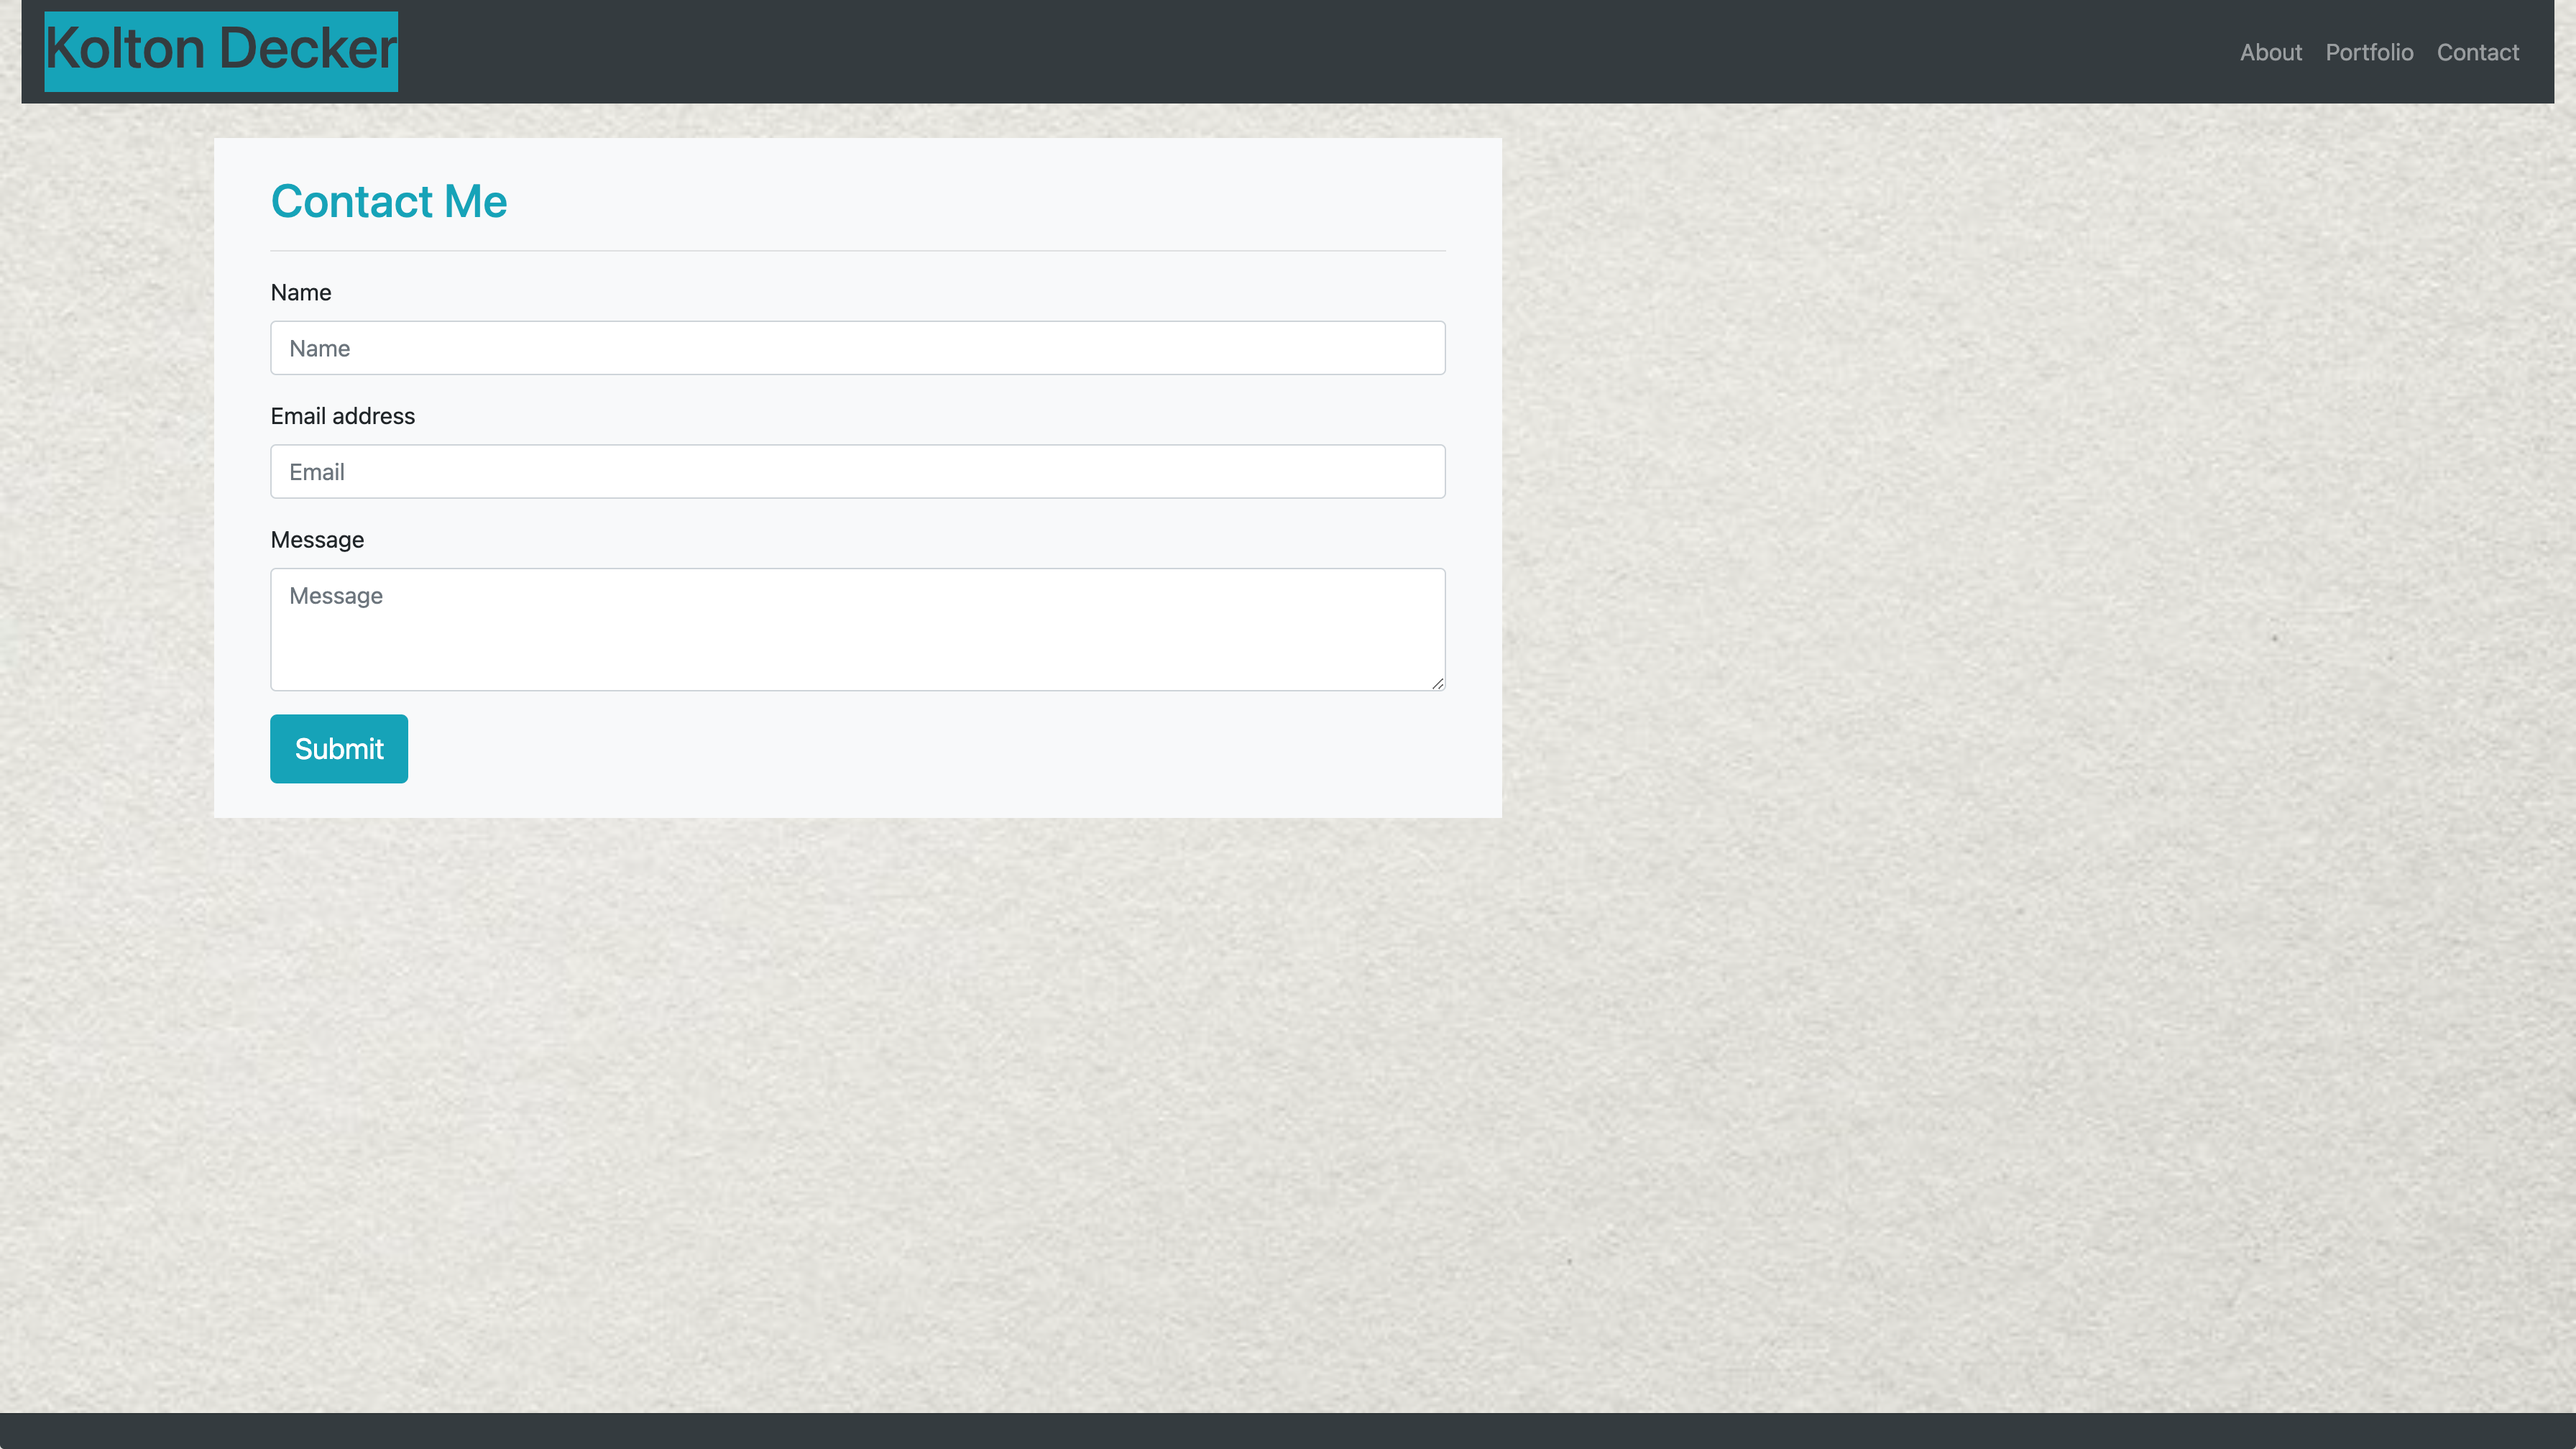
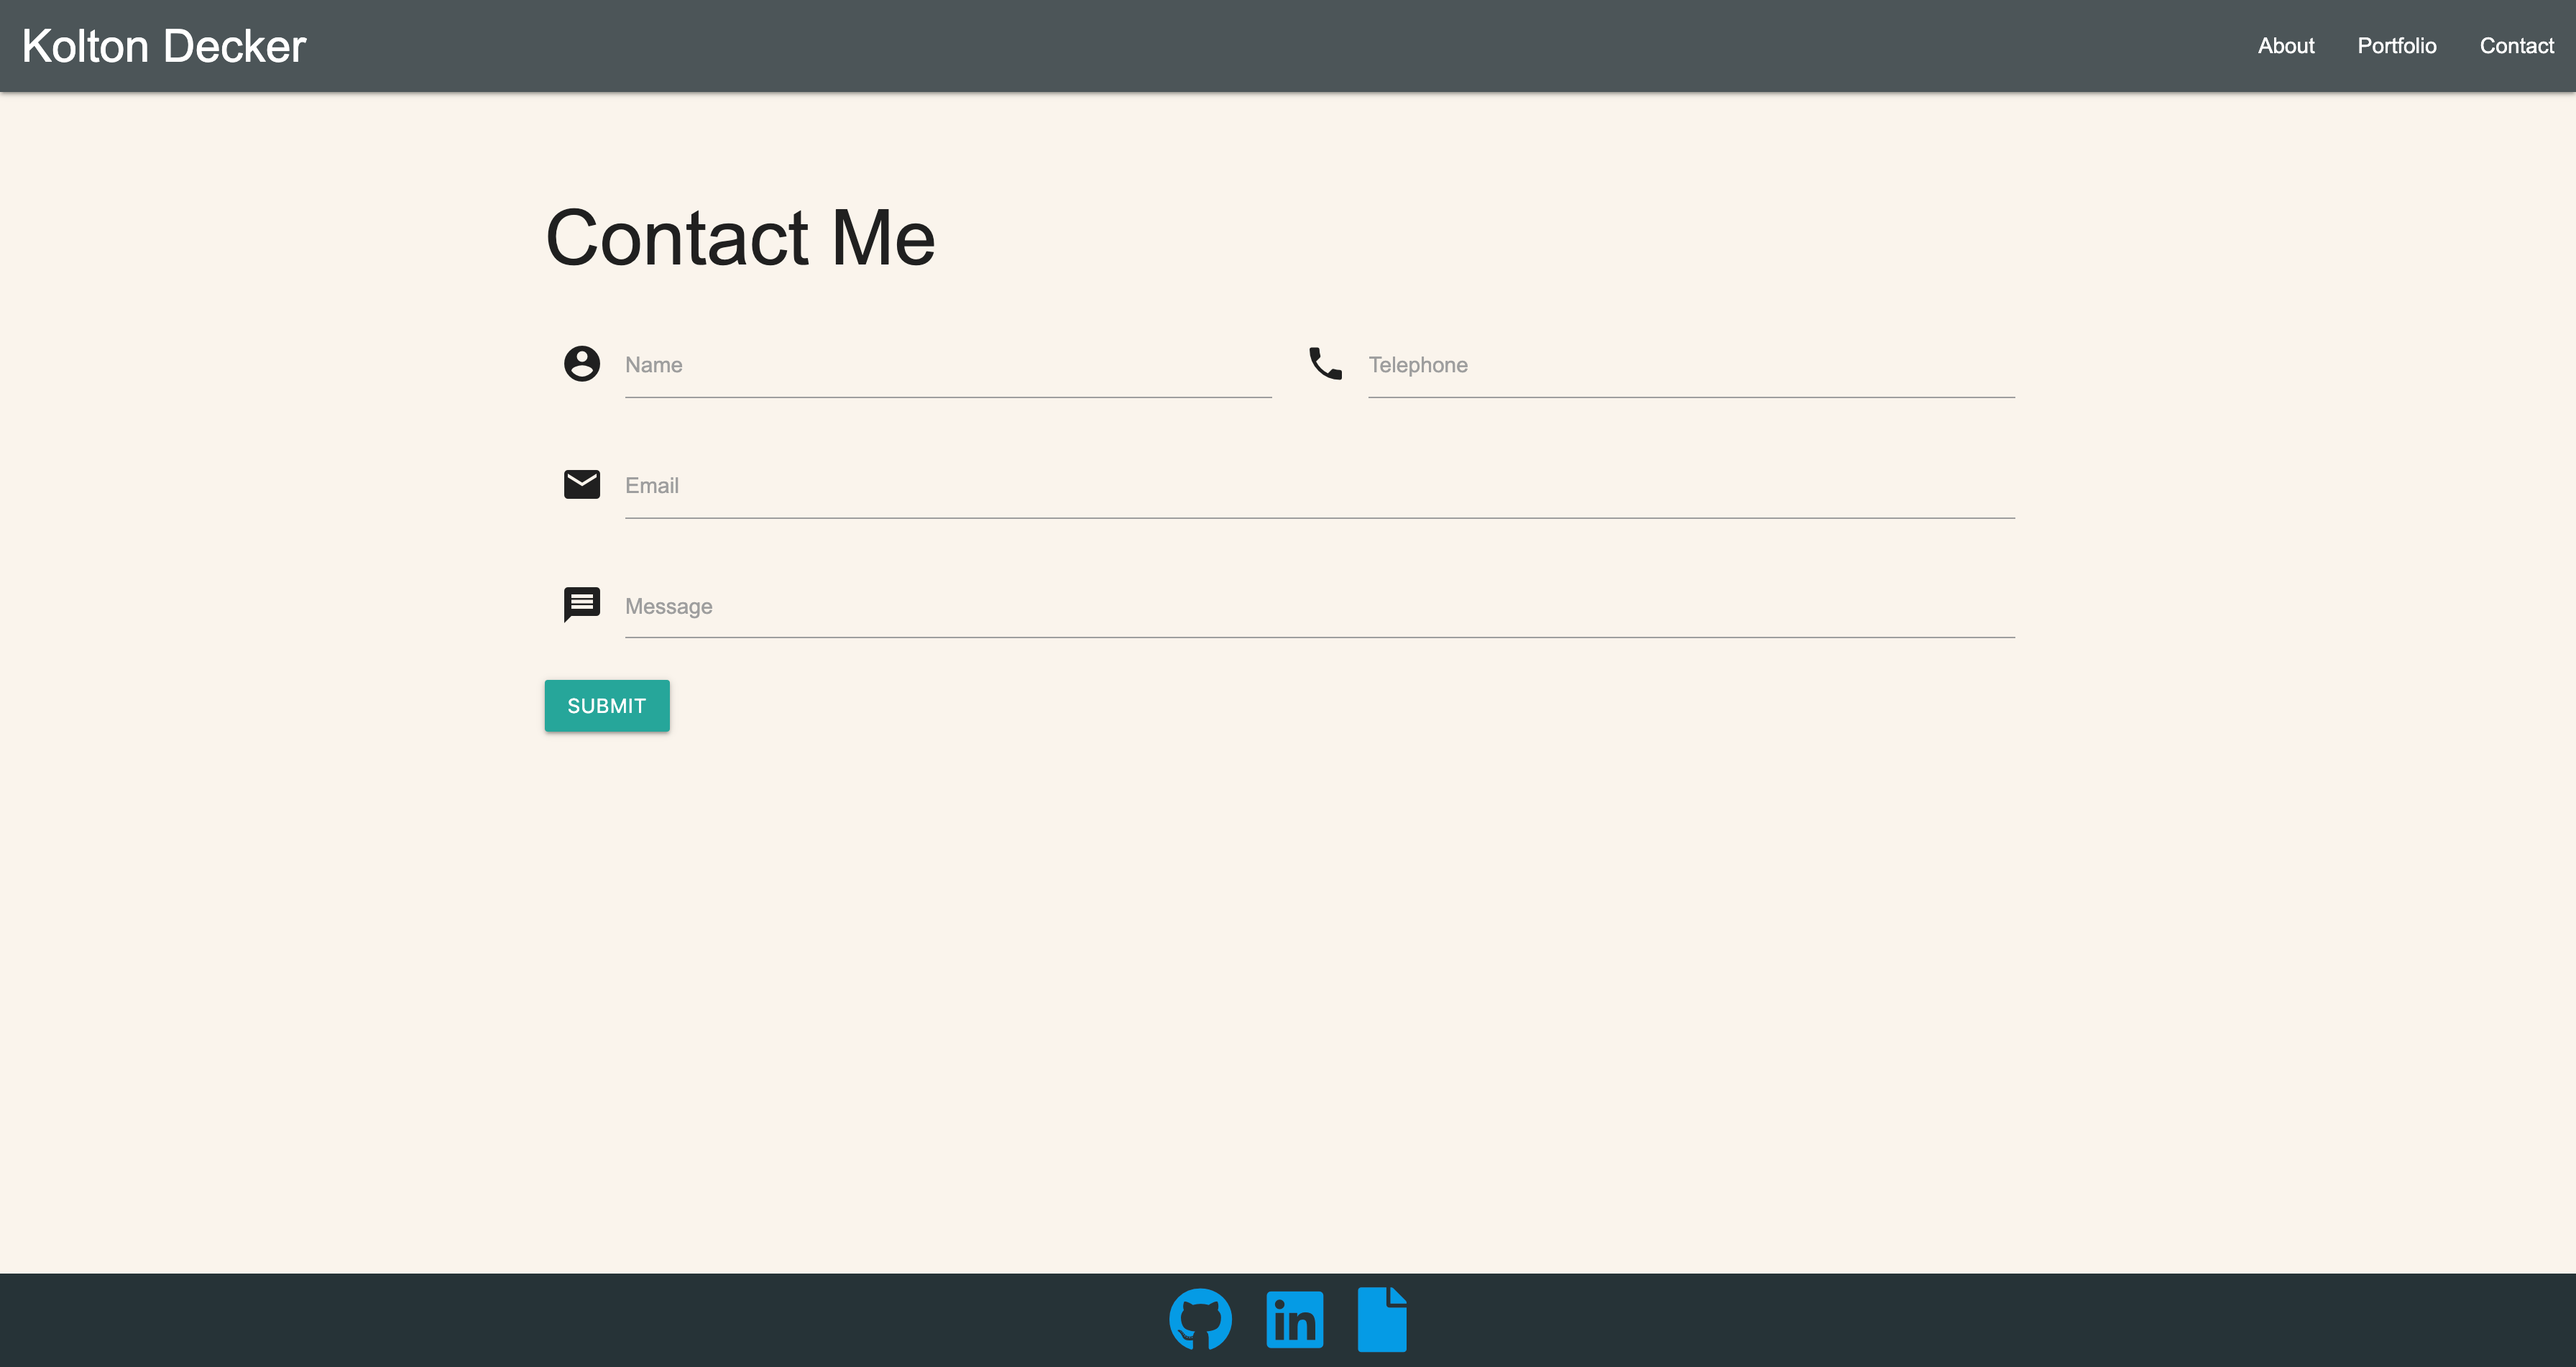
Cleaned up Readme

diff --git a/assets/html/portfolio.html b/assets/html/portfolio.html
@@ -50,7 +50,7 @@
             <div class="parallax-container">
                 <div class="parallax"><a href="https://goal-tracker-kscc.herokuapp.com/"><img class="project-image" src="../images/goal-tracker-homepage.png" ></a></div>
             </div>
-            <div class="section grey lighten-2">
+            <div class="section">
                 <div class="row container">
                     <h2 class="header center-align">Goal Tracker</h2>
                     <div class="col s12 m6 center-align">
@@ -95,7 +95,7 @@
             <div class="parallax-container">
                 <div class="parallax"><a href="https://koltondecker.github.io/quarantinis/"><img class="project-image" src="../images/quarantinis-landing-page.jpg" ></a></div>
             </div>
-            <div class="section grey lighten-2">
+            <div class="section">
                 <div class="row container">
                     <h2 class="header center-align">quarantinis: A Cocktail Recipe Generator</h2>
                     <div class="col s12 m6 center-align">
@@ -134,7 +134,7 @@
             <div class="parallax-container">
                 <div class="parallax"><a href="https://koltondecker.github.io/Weather-Dashboard/"><img class="project-image" src="../images/weather-dashboard-project.png" ></a></div>
             </div>
-            <div class="section grey lighten-2">
+            <div class="section">
                 <div class="row container">
                     <h2 class="header center-align">Weather Dashboard</h2>
                     <div class="col s12 m6 center-align">
@@ -173,7 +173,7 @@
             <div class="parallax-container">
                 <div class="parallax"><a href="https://burger-logger-kolton-decker.herokuapp.com/"><img class="project-image" src="../images/burger-logger.png" ></a></div>
             </div>
-            <div class="section grey lighten-2">
+            <div class="section">
                 <div class="row container">
                     <h2 class="header center-align">Eat Da Burger: Burger Logger</h2>
                     <div class="col s12 m6 center-align">

diff --git a/assets/css/style.css b/assets/css/style.css
@@ -68,6 +68,7 @@ flex: 1 0 auto;
 
 .section {
     background-image: url("../images/grey-background.jpg");
+    /* background-color: rgb(250, 244, 236); */
 }
 
 .project-links {
@@ -91,7 +92,6 @@ flex: 1 0 auto;
 }
 
 .page-footer {
-    background-color: rgb(250, 244, 236);
     padding: 0;
 }
 

diff --git a/README.md b/README.md
@@ -2,90 +2,25 @@
 
 View Deployed Project here: https://koltondecker.github.io/Responsive-Portfolio/
 
-This project displays a bootstrap framework portfolio built from scratch and utilizes the responsive aspects of Bootstrap to make this website friendly for all devices. Responsive design ensures that web applications render well on a variety of devices and window or screen sizes. As a developer, you will likely be asked to create a mobile-first application or add responsive design to an existing application. 
-
-This project will serve as the baseline for my future portfolio which will include a more extensive library of my projects to showcase my skills as a full stack web developer. 
-
-## Directions
-
-- [x] * Create the following files files: `index.html`, `portfolio.html` and `contact.html`.
-
-- [x] * Using Bootstrap, develop your portfolio site with the following items:
-
-- [x]    * A navbar
-
-- [x]    * A responsive layout
-
-- [x]    * Responsive images
-
-- [x] * The Bootstrap portfolio should minimize the use of media queries.
-
-- [x] * Screenshots are provided as a reference in the `Assets/Images` folder. Your app does not need to be _exactly_ like the images. Use Bootstrap to create a similar, responsive layout.
+This project displays a Materialize framework portfolio built from scratch and utilizes the responsive aspects of Materialize to make this website friendly for all devices. Responsive design ensures that web applications render well on a variety of devices and window or screen sizes. 
+ 
+## About Me Page
+<hr>
+<br>
 
 ![Responsive Portfolio: About Me Page](assets/images/About-Me-Page.png)
+<br>
+
+## Projects Portfolio
+<hr>
+<br>
 
 ![Responsive Portfolio:  Portfolio Page](assets/images/Portfolio-Page.png)
+<br>
+
+## Contact Me Page
+<hr>
+<br>
 
 ![Responsive Portfolio: Contact Me Page](assets/images/Contact-Me-Page.png)
 
-### Hints
-
-- [x] * Use Bootstrap's grid system (containers, rows, and columns).
-
-- [x] * On an `xs` screen, content should take up the entire screen. On `sm` and larger screens, you should have some margins on the left and right sides of the screen. Check out various sites on your mobile device vs. your computer to see examples of these differences.
-
-- [x] * Use an HTML validation service to ensure that each page has valid HTML.
-
-### Minimum Requirements
-
-- [x] * Functional, deployed application
-
-- [x] * GitHub repository with README describing the project
-
-- [x] * Navbar must be consistent on each page.
-
-- [x] * Navbar on each page must contain links to Home/About, Contact, and Portfolio pages.
-
-- [x] * All links must work.
-
-- [x] * Must use semantic html.
-
-- [x] * Each page must have valid and correct HTML. (use a validation service)
-
-- [x] * Must contain your personalized information. (bio, name, images, links to social media, etc.)
-
-- [x] * Must properly utilize Bootstrap components and grid system.
-
-### Bonus
-
-- [x] * Using Bootstrap, make a sticky footer and use sub-rows and sub-columns on your portfolio site (**Hint:** Check out the Bootstrap documentation).
-
-## Commit Early and Often
-
-One of the most important skills to master as a web developer is version control. Building the habit of committing via Git is important for two reasons:
-
-- [x] * Your commit history is a signal to employers that you are actively working on projects and learning new skills.
-
-- [x] * Your commit history allows you to revert your codebase in the event that you need to return to a previous state.
-
-Follow these guidelines for committing:
-
-- [x] * Make single-purpose commits for related changes to ensure a clean, manageable history. If you are fixing two issues, make two commits.
-
-- [x] * Write descriptive, meaningful commit messages so that you and anyone else looking at your repository can easily understand its history.
-
-- [x] * Don't commit half-done work, for the sake of your collaborators (and your future self!).
-
-- [x] * Test your application before you commit to ensure functionality at every step in the development process.
-
-We would like you to have well over 200 commits by graduation, so commit early and often!
-
-## Submission on BCS
-
-You are required to submit the following:
-
-- [x] * The URLs of the deployed applications
-
-- [x] * The URLs of the GitHub repositories
-
-- - -
